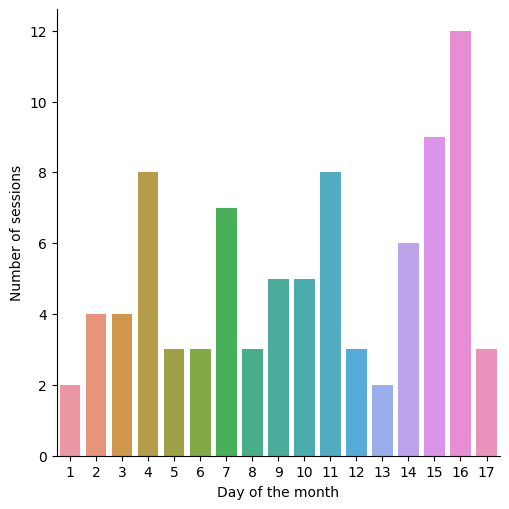
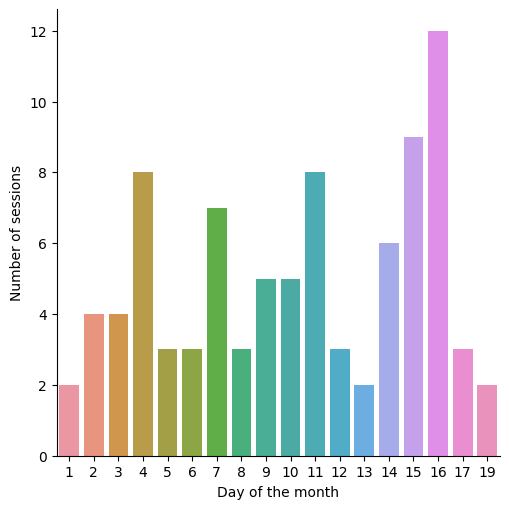
"Stats generated 2021-06-20"

Changed region(s): [[0.1768, 0.0589, 1.0, 0.943], [0.1473, 0.6189, 0.1768, 0.8841], [0.1179, 0.9136, 0.1473, 0.943]]

diff --git a/all/2021/6/days/19/index.html b/all/2021/6/days/19/index.html
@@ -1,0 +1,29 @@
+<!DOCTYPE html>
+<html>
+  <head>
+    <meta charset="utf-8"/>
+    <title>19 June 2021</title>
+    <link rel="stylesheet" href="../../../../../styles.css"/>
+  </head>
+  <body>
+    <div id="container">
+      <nav>
+        <ul>
+          
+            <li><a href="../../">June 2021</a></li>
+            <li class="separator"></li>
+          
+          
+        </ul>
+      </nav>
+      <main>
+        <h1>19 June 2021</h1>
+        
+          <h2>Number of sessions per hour</h2>
+          <img src="sessions.png" alt="Number of sessions per hour"/>
+        
+        
+      </main>
+    </div>
+  </body>
+</html>

diff --git a/all/2021/index.html b/all/2021/index.html
@@ -107,9 +107,9 @@
                   
                     <td>6.0</td>
                   
-                    <td>87.0</td>
+                    <td>89.0</td>
                   
-                    <td>94.37154065</td>
+                    <td>98.041622</td>
                   
                 </tr>
               

diff --git a/all/2021/6/index.html b/all/2021/6/index.html
@@ -118,6 +118,10 @@
               <li><a href="days/17/">17</a></li>
             
           
+            
+              <li><a href="days/19/">19</a></li>
+            
+          
         </ul>
       </nav>
       <main>
